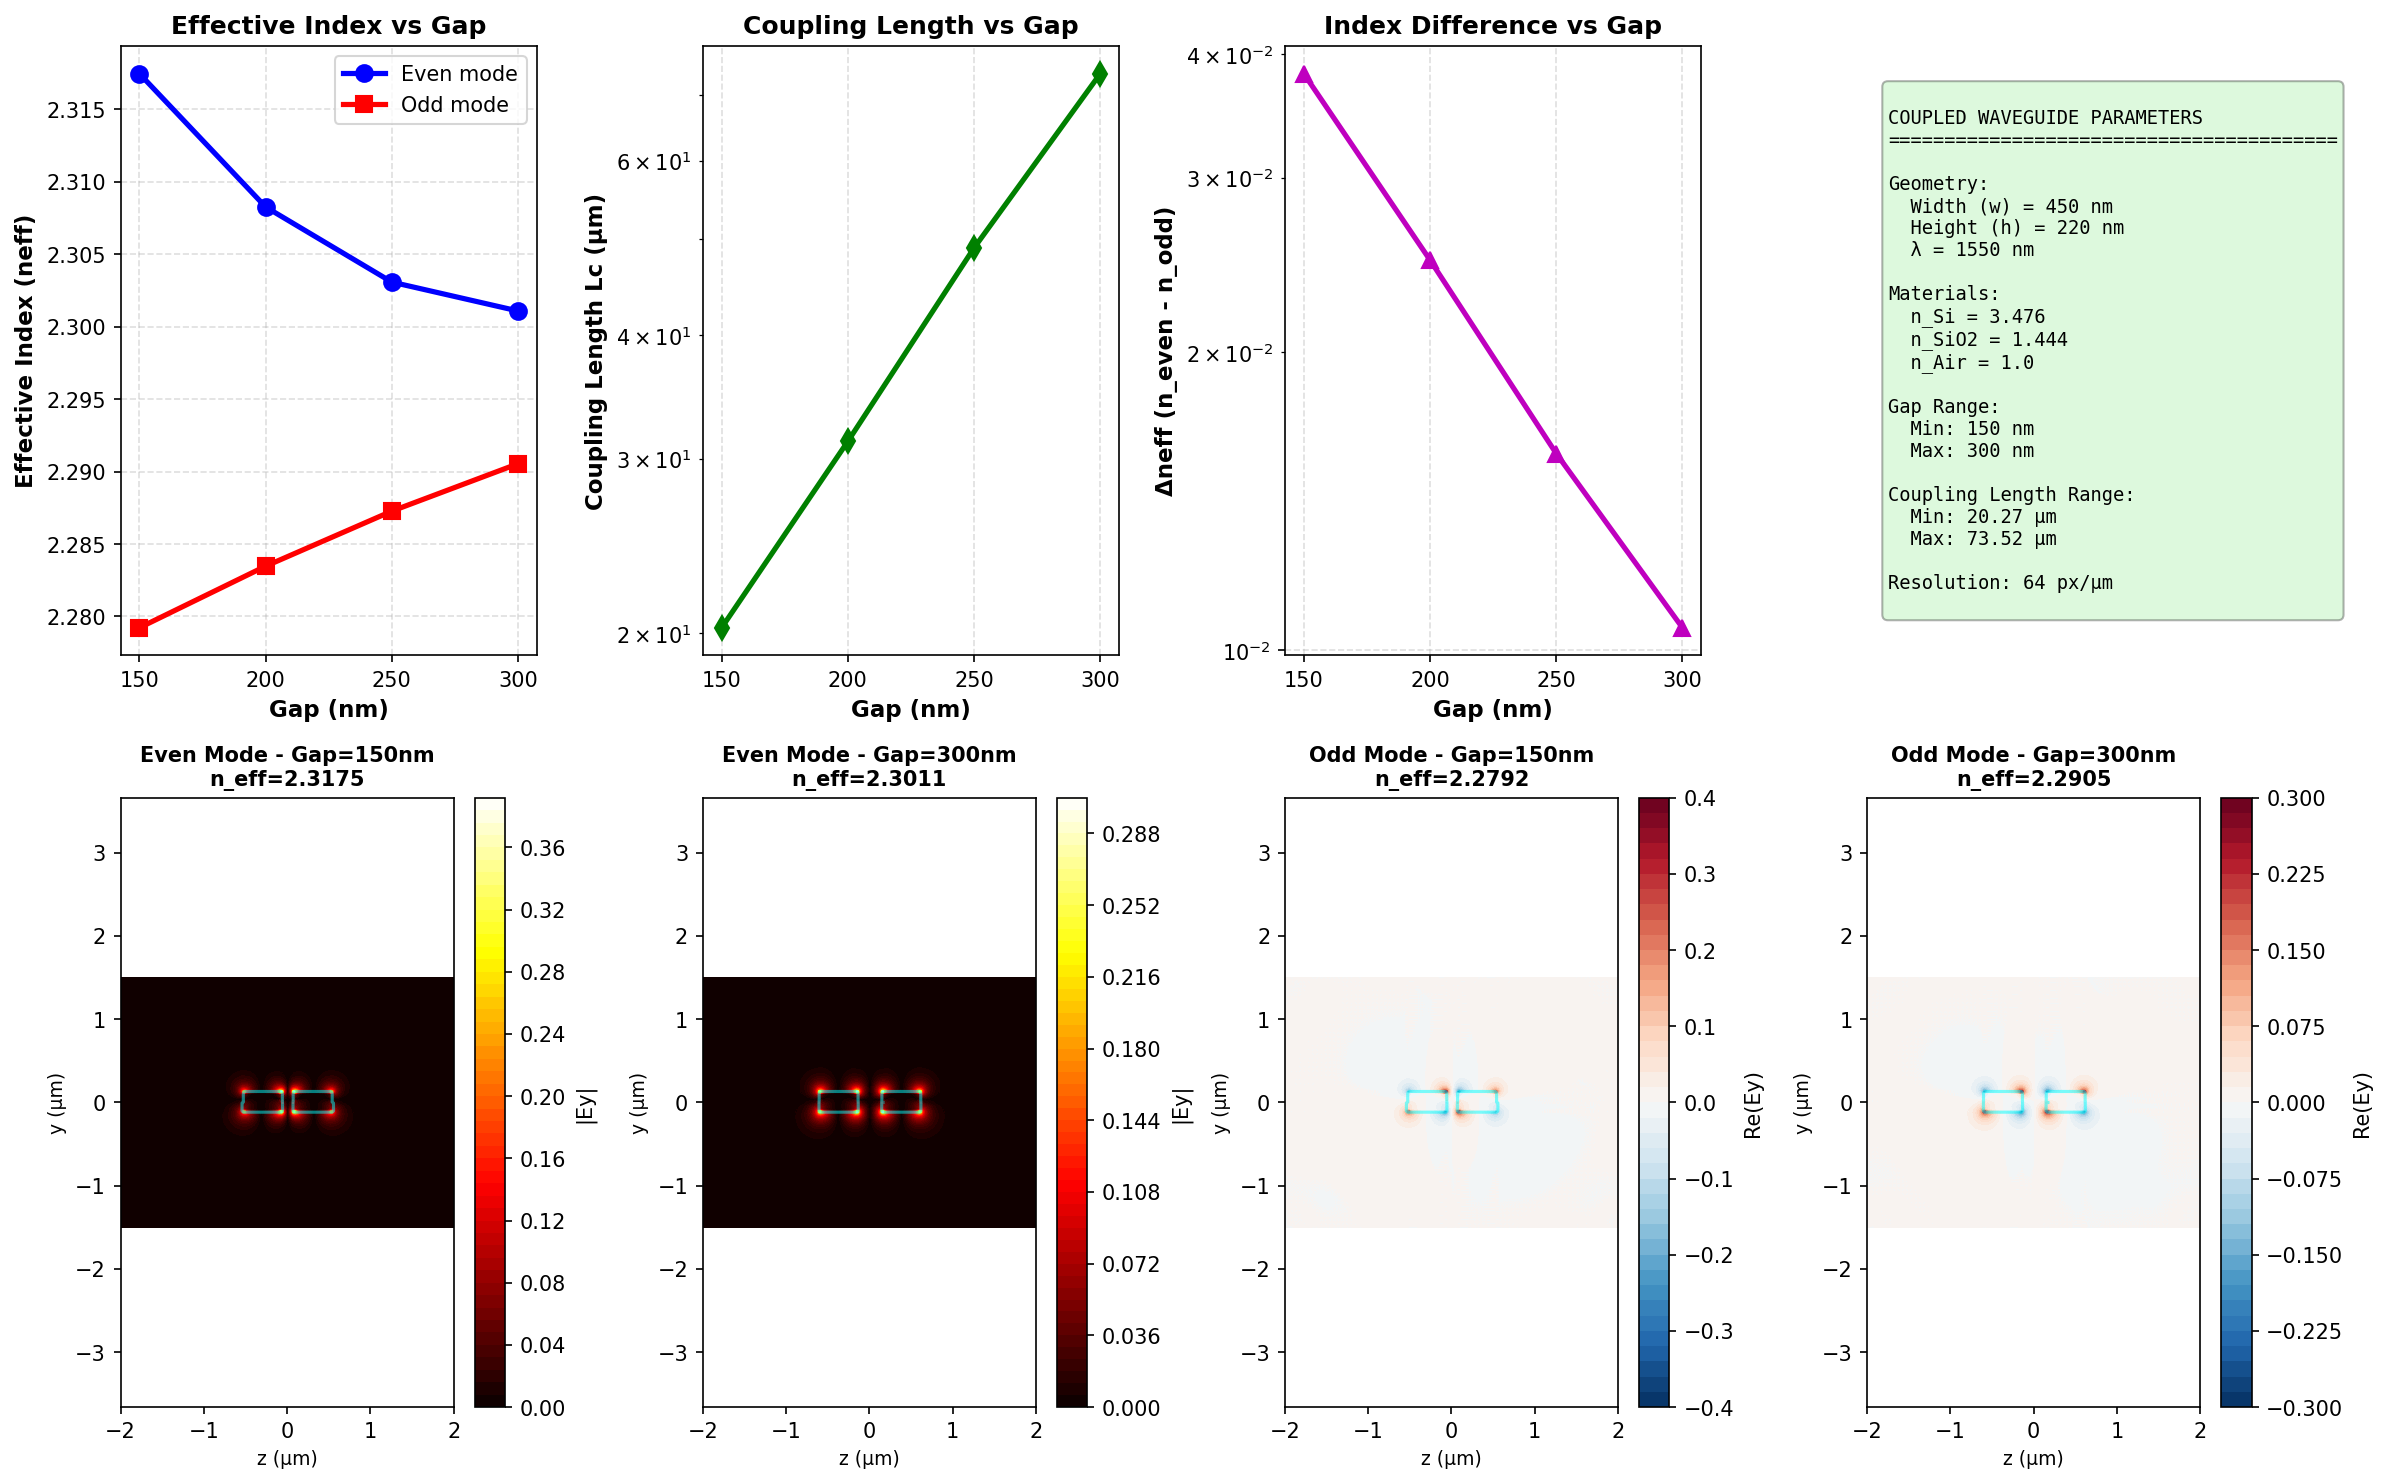
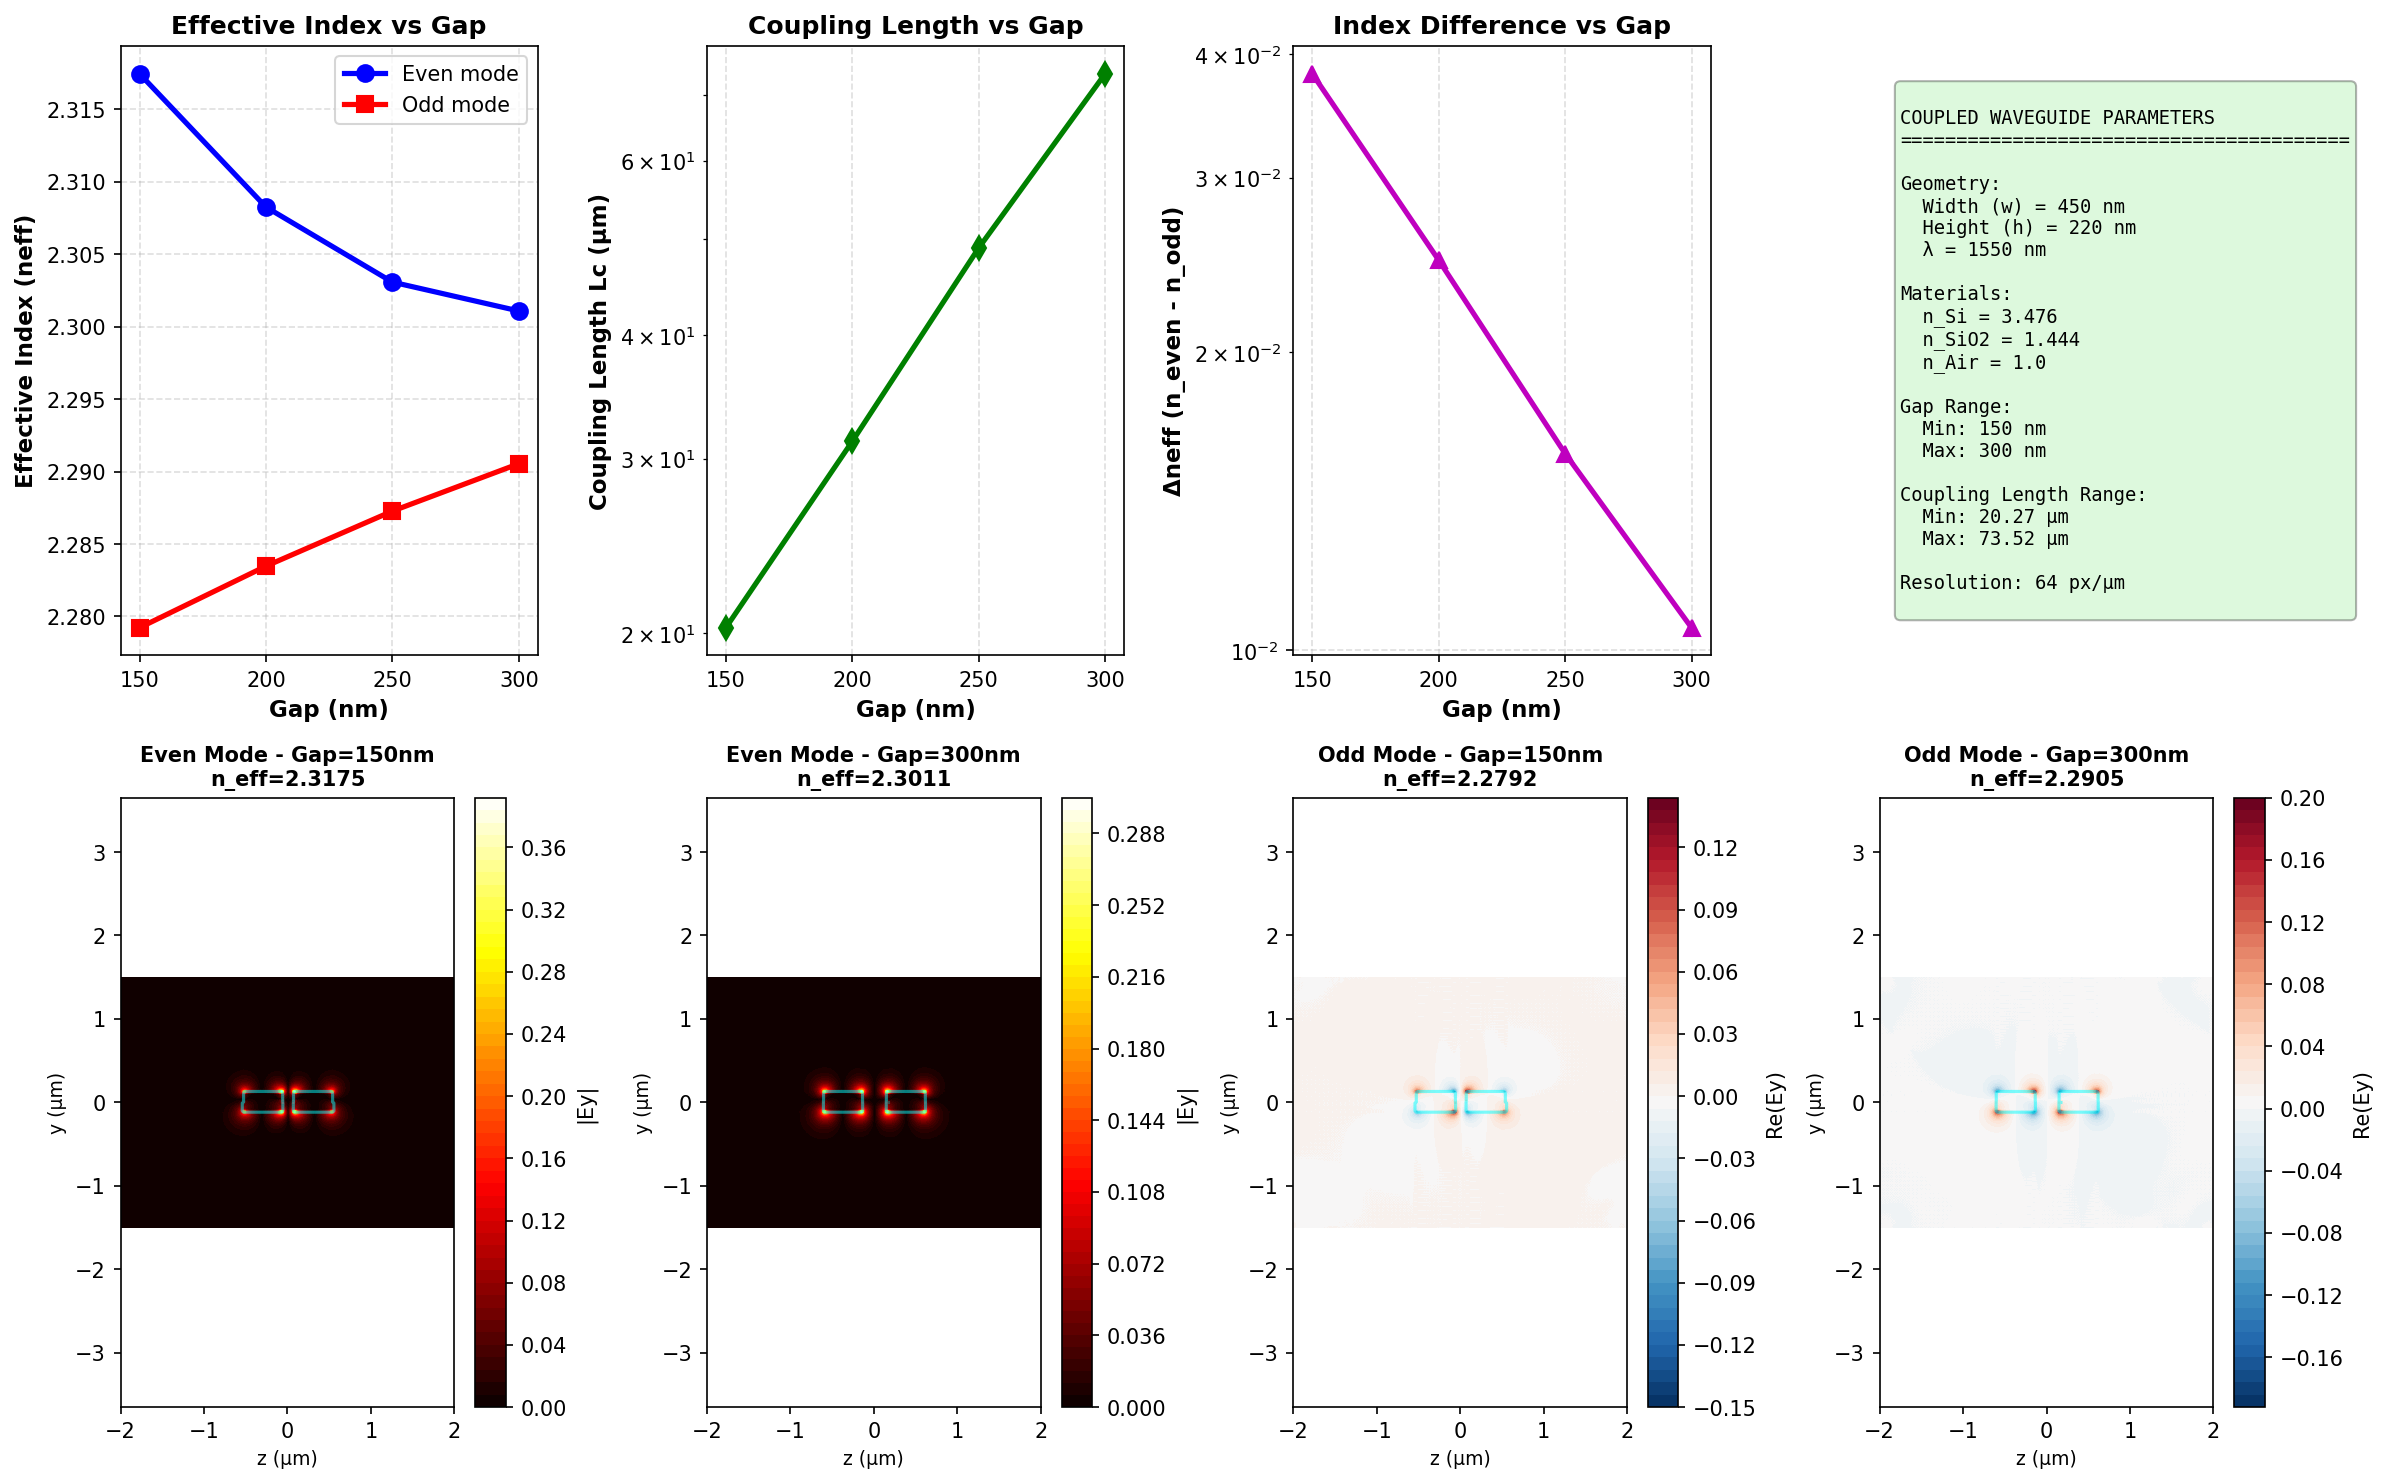
Coupled Length stuff. Also changed resolution for shorter runtimes

diff --git a/couplingLength.py b/couplingLength.py
@@ -1,0 +1,388 @@
+import meep as mp
+from meep import mpb
+import numpy as np
+import matplotlib.pyplot as plt
+
+# Physical parameters
+n_si = 3.476      # Silicon at 1550 nm
+n_sio2 = 1.444    # Silicon dioxide
+n_air = 1.0       # Air
+
+# Materials
+si = mp.Medium(index=n_si)
+sio2 = mp.Medium(index=n_sio2)
+air = mp.Medium(index=n_air)
+
+# Waveguide geometry (in microns)
+w = 0.45          # Width: 450 nm
+h = 0.22          # Height: 220 nm
+g0 = 0.2          # Gap: 200 nm
+
+# Wavelength
+wl0 = 1.55        # 1550 nm
+fcen = 1/wl0      # Center frequency
+df = 0.1*fcen     # Frequency width
+
+# Computational parameters
+resolution = 20   # pixels per micron
+pml_thickness = 1.0
+
+# Turn off verbose output for cleaner results
+mp.verbosity(0)
+
+print("="*80)
+print("COUPLING LENGTH VERIFICATION: FDTD vs THEORY")
+print("="*80)
+
+# Step 1: Calculate theoretical coupling length using MPB
+print("\nStep 1: Calculating theoretical coupling length using MPB...")
+print("-"*80)
+
+sy_mpb = 3.0
+sz_mpb = 4.0
+resolution_mpb = 64
+
+z_offset = (w + g0) / 2
+
+geometry_mpb = [
+    mp.Block(center=mp.Vector3(), size=mp.Vector3(mp.inf, mp.inf), material=air),
+    mp.Block(center=mp.Vector3(0, -sy_mpb/4, 0), 
+            size=mp.Vector3(mp.inf, sy_mpb/2, mp.inf), 
+            material=sio2),
+    mp.Block(center=mp.Vector3(0, 0, -z_offset), 
+            size=mp.Vector3(mp.inf, h, w), 
+            material=si),
+    mp.Block(center=mp.Vector3(0, 0, z_offset), 
+            size=mp.Vector3(mp.inf, h, w), 
+            material=si)
+]
+
+geometry_lattice = mp.Lattice(size=mp.Vector3(0, sy_mpb, sz_mpb))
+
+ms = mpb.ModeSolver(
+    geometry_lattice=geometry_lattice,
+    geometry=geometry_mpb,
+    resolution=resolution_mpb,
+    num_bands=2,
+)
+
+ms.init_params(mp.NO_PARITY, True)
+
+# Find even and odd modes
+tol = 1e-6
+n_mode_guess = 0.5 * (n_si + n_sio2)
+n_mode_min = n_sio2
+n_mode_max = n_si
+
+k_guess = fcen * n_mode_guess
+k_min = fcen * n_mode_min
+k_max = fcen * n_mode_max
+
+k_mpb = ms.find_k(mp.NO_PARITY, fcen, 1, 2, mp.Vector3(1, 0, 0), 
+                  tol, k_guess, k_min, k_max)
+
+neff_even = k_mpb[0] / fcen
+neff_odd = k_mpb[1] / fcen
+delta_neff = neff_even - neff_odd
+Lc_theory = wl0 / (2 * delta_neff)
+
+print(f"Even mode neff: {neff_even:.6f}")
+print(f"Odd mode neff:  {neff_odd:.6f}")
+print(f"Δneff:          {delta_neff:.6f}")
+print(f"Theoretical Lc: {Lc_theory:.3f} μm")
+print("-"*80)
+
+# Step 2: FDTD simulations for different coupling lengths
+print(f"\nStep 2: Running FDTD simulations for multiple coupling lengths...")
+print("-"*80)
+
+# Define coupling length sweep
+L_ratios = [0.5, 0.75, 1.0, 1.25, 1.5]
+L_values = [ratio * Lc_theory for ratio in L_ratios]
+
+# Storage for results
+through_powers = []
+cross_powers = []
+total_powers = []
+
+def run_fdtd_simulation(L):
+    """Run FDTD simulation for given coupling length"""
+    
+    # Cell dimensions
+    sx = L + 4  # Extra space for source and PML
+    sy = 3.0
+    sz = 4.0
+    
+    cell_size = mp.Vector3(sx, sy, sz)
+    pml_layers = [mp.PML(thickness=pml_thickness)]
+    
+    # Geometry - Two coupled waveguides
+    geometry = [
+        mp.Block(center=mp.Vector3(0, -sy/4, 0),
+                size=mp.Vector3(mp.inf, sy/2, mp.inf),
+                material=sio2),
+        mp.Block(center=mp.Vector3(0, 0, -z_offset),
+                size=mp.Vector3(L, h, w),
+                material=si),
+        mp.Block(center=mp.Vector3(0, 0, z_offset),
+                size=mp.Vector3(L, h, w),
+                material=si)
+    ]
+    
+    # Source at input of waveguide 1 (through port)
+    source_x = -L/2 - 0.5
+    sources = [
+        mp.EigenModeSource(
+            src=mp.GaussianSource(fcen, fwidth=df),
+            center=mp.Vector3(source_x, 0, -z_offset),
+            size=mp.Vector3(0, sy, sz),
+            eig_band=1,
+            eig_parity=mp.NO_PARITY,
+            eig_match_freq=True
+        )
+    ]
+    
+    # Output monitors
+    monitor_x = L/2 + 0.5
+    
+    # Through port (same waveguide as input)
+    through_region = mp.FluxRegion(
+        center=mp.Vector3(monitor_x, 0, -z_offset),
+        size=mp.Vector3(0, 1.5, 1.5)
+    )
+    
+    # Cross port (coupled waveguide)
+    cross_region = mp.FluxRegion(
+        center=mp.Vector3(monitor_x, 0, z_offset),
+        size=mp.Vector3(0, 1.5, 1.5)
+    )
+    
+    # Initialize simulation
+    sim = mp.Simulation(
+        cell_size=cell_size,
+        geometry=geometry,
+        sources=sources,
+        boundary_layers=pml_layers,
+        resolution=resolution,
+        default_material=air
+    )
+    
+    # Add flux monitors
+    through_flux = sim.add_flux(fcen, df, 1, through_region)
+    cross_flux = sim.add_flux(fcen, df, 1, cross_region)
+    
+    # Run simulation with fixed time
+    # Conservative estimate: propagation time through structure
+    runtime = 50  # Fixed time units
+    sim.run(until=runtime)
+    
+    # Get flux values
+    through_power = mp.get_fluxes(through_flux)[0]
+    cross_power = mp.get_fluxes(cross_flux)[0]
+    
+    return through_power, cross_power
+
+# Run simulations for each length
+for i, (L, ratio) in enumerate(zip(L_values, L_ratios)):
+    print(f"Simulating L = {ratio:.2f}Lc ({L:.3f} μm)...", end=" ", flush=True)
+    
+    through_power, cross_power = run_fdtd_simulation(L)
+    total_power = through_power + cross_power
+    
+    through_powers.append(through_power)
+    cross_powers.append(cross_power)
+    total_powers.append(total_power)
+    
+    through_pct = (through_power / total_power) * 100
+    cross_pct = (cross_power / total_power) * 100
+    
+    print(f"Through: {through_pct:.1f}%, Cross: {cross_pct:.1f}%")
+
+print("-"*80)
+
+# Step 3: Calculate theoretical power transfer
+print("\nStep 3: Computing theoretical power transfer curves...")
+print("-"*80)
+
+L_theory_fine = np.linspace(0, 2*Lc_theory, 200)
+# Theoretical power transfer: P_cross = sin²(π*L/(2*Lc))
+cross_power_theory = np.sin(np.pi * L_theory_fine / (2 * Lc_theory))**2
+through_power_theory = np.cos(np.pi * L_theory_fine / (2 * Lc_theory))**2
+
+# Normalize FDTD results
+through_powers_norm = np.array(through_powers) / np.array(total_powers)
+cross_powers_norm = np.array(cross_powers) / np.array(total_powers)
+
+# Find maximum cross power location
+max_cross_idx = np.argmax(cross_powers_norm)
+Lc_fdtd = L_values[max_cross_idx]
+error_percent = abs(Lc_fdtd - Lc_theory) / Lc_theory * 100
+
+print(f"Theoretical Lc:     {Lc_theory:.3f} μm")
+print(f"FDTD maximum at:    {Lc_fdtd:.3f} μm")
+print(f"Relative error:     {error_percent:.2f}%")
+print("-"*80)
+
+# Step 4: Visualization
+print("\nStep 4: Generating comprehensive plots...")
+
+fig = plt.figure(figsize=(16, 10))
+
+# Plot 1: Power vs Length - Main comparison
+ax1 = plt.subplot(2, 3, 1)
+plt.plot(L_theory_fine, cross_power_theory*100, 'r-', linewidth=3, 
+         label='Cross (Theory)', alpha=0.7)
+plt.plot(L_theory_fine, through_power_theory*100, 'b-', linewidth=3, 
+         label='Through (Theory)', alpha=0.7)
+plt.plot(L_values, cross_powers_norm*100, 'ro', markersize=12, 
+         markeredgecolor='darkred', markeredgewidth=2, label='Cross (FDTD)')
+plt.plot(L_values, through_powers_norm*100, 'bs', markersize=12, 
+         markeredgecolor='darkblue', markeredgewidth=2, label='Through (FDTD)')
+plt.axvline(x=Lc_theory, color='green', linestyle='--', linewidth=2, 
+            label=f'Theoretical Lc={Lc_theory:.2f}μm')
+plt.axvline(x=Lc_fdtd, color='orange', linestyle=':', linewidth=2, 
+            label=f'FDTD max at {Lc_fdtd:.2f}μm')
+plt.xlabel('Coupling Length L (μm)', fontsize=12, fontweight='bold')
+plt.ylabel('Power (%)', fontsize=12, fontweight='bold')
+plt.title('Power Transfer: FDTD vs Theory', fontsize=13, fontweight='bold')
+plt.legend(fontsize=9, loc='best')
+plt.grid(True, alpha=0.3)
+plt.xlim([0, max(L_values)*1.1])
+plt.ylim([0, 105])
+
+# Plot 2: Cross port power - zoomed
+ax2 = plt.subplot(2, 3, 2)
+plt.plot(L_theory_fine, cross_power_theory*100, 'r-', linewidth=3, alpha=0.7)
+plt.plot(L_values, cross_powers_norm*100, 'ro', markersize=12, 
+         markeredgecolor='darkred', markeredgewidth=2)
+plt.axvline(x=Lc_theory, color='green', linestyle='--', linewidth=2, alpha=0.7)
+plt.axhline(y=100, color='gray', linestyle=':', linewidth=1.5, alpha=0.5)
+plt.xlabel('Coupling Length L (μm)', fontsize=12, fontweight='bold')
+plt.ylabel('Cross Port Power (%)', fontsize=12, fontweight='bold')
+plt.title('Cross Port Power Detail', fontsize=13, fontweight='bold')
+plt.grid(True, alpha=0.3)
+plt.xlim([0, max(L_values)*1.1])
+plt.ylim([0, 105])
+
+# Plot 3: Error analysis
+ax3 = plt.subplot(2, 3, 3)
+cross_error = (cross_powers_norm*100 - 
+               np.sin(np.pi * np.array(L_values) / (2 * Lc_theory))**2 * 100)
+through_error = (through_powers_norm*100 - 
+                 np.cos(np.pi * np.array(L_values) / (2 * Lc_theory))**2 * 100)
+plt.plot(L_values, cross_error, 'ro-', linewidth=2, markersize=10, 
+         label='Cross port error')
+plt.plot(L_values, through_error, 'bs-', linewidth=2, markersize=10, 
+         label='Through port error')
+plt.axhline(y=0, color='black', linestyle='-', linewidth=1)
+plt.xlabel('Coupling Length L (μm)', fontsize=12, fontweight='bold')
+plt.ylabel('Error: FDTD - Theory (%)', fontsize=12, fontweight='bold')
+plt.title('FDTD vs Theory Error', fontsize=13, fontweight='bold')
+plt.legend(fontsize=10)
+plt.grid(True, alpha=0.3)
+
+# Plot 4: Summary info
+ax4 = plt.subplot(2, 3, 4)
+ax4.axis('off')
+summary_text = f"""
+SIMULATION PARAMETERS
+{'='*45}
+
+Geometry:
+  Width (w):        {w*1000:.0f} nm
+  Height (h):       {h*1000:.0f} nm
+  Gap (g₀):         {g0*1000:.0f} nm
+  Wavelength (λ):   {wl0*1000:.0f} nm
+
+Materials:
+  n_Si:    {n_si}
+  n_SiO₂:  {n_sio2}
+  n_Air:   {n_air}
+
+Mode Analysis:
+  n_eff (even):     {neff_even:.6f}
+  n_eff (odd):      {neff_odd:.6f}
+  Δn_eff:           {delta_neff:.6f}
+
+Coupling Length:
+  Theoretical:      {Lc_theory:.3f} μm
+  FDTD (max):       {Lc_fdtd:.3f} μm
+  Error:            {error_percent:.2f}%
+
+Resolution:         {resolution} px/μm
+PML thickness:      {pml_thickness} μm
+"""
+ax4.text(0.05, 0.5, summary_text, fontsize=9, family='monospace',
+         verticalalignment='center',
+         bbox=dict(boxstyle='round', facecolor='lightyellow', alpha=0.5))
+
+# Plot 5: Bar chart at specific lengths
+ax5 = plt.subplot(2, 3, 5)
+x_pos = np.arange(len(L_ratios))
+width = 0.35
+bars1 = plt.bar(x_pos - width/2, through_powers_norm*100, width, 
+                label='Through', color='blue', alpha=0.7, edgecolor='black')
+bars2 = plt.bar(x_pos + width/2, cross_powers_norm*100, width, 
+                label='Cross', color='red', alpha=0.7, edgecolor='black')
+plt.xlabel('Coupling Length', fontsize=12, fontweight='bold')
+plt.ylabel('Power (%)', fontsize=12, fontweight='bold')
+plt.title('Power Distribution at Different Lengths', fontsize=13, fontweight='bold')
+plt.xticks(x_pos, [f'{r:.2f}Lc' for r in L_ratios])
+plt.legend(fontsize=10)
+plt.grid(True, axis='y', alpha=0.3)
+plt.ylim([0, 105])
+
+# Add value labels on bars
+for bars in [bars1, bars2]:
+    for bar in bars:
+        height = bar.get_height()
+        ax5.text(bar.get_x() + bar.get_width()/2., height,
+                f'{height:.0f}%', ha='center', va='bottom', fontsize=8)
+
+# Plot 6: Coupling efficiency vs normalized length
+ax6 = plt.subplot(2, 3, 6)
+L_normalized = np.array(L_values) / Lc_theory
+L_norm_theory = L_theory_fine / Lc_theory
+plt.plot(L_norm_theory, cross_power_theory*100, 'r-', linewidth=3, 
+         label='Theory', alpha=0.7)
+plt.plot(L_normalized, cross_powers_norm*100, 'ro', markersize=12, 
+         markeredgecolor='darkred', markeredgewidth=2, label='FDTD')
+plt.axvline(x=1.0, color='green', linestyle='--', linewidth=2, 
+            label='L = Lc', alpha=0.7)
+plt.xlabel('Normalized Length (L/Lc)', fontsize=12, fontweight='bold')
+plt.ylabel('Cross Port Power (%)', fontsize=12, fontweight='bold')
+plt.title('Coupling Efficiency vs L/Lc', fontsize=13, fontweight='bold')
+plt.legend(fontsize=10)
+plt.grid(True, alpha=0.3)
+plt.xlim([0, max(L_normalized)*1.1])
+plt.ylim([0, 105])
+
+plt.tight_layout()
+plt.savefig('coupling_length_verification.png', dpi=150, bbox_inches='tight')
+print("Plot saved as 'coupling_length_verification.png'")
+plt.show()
+
+# Print detailed results table
+print("\n" + "="*80)
+print("DETAILED RESULTS TABLE")
+print("="*80)
+print(f"{'L (μm)':<10} {'L/Lc':<10} {'Through %':<12} {'Cross %':<12} {'Theory Cross %':<15}")
+print("-"*80)
+for i, (L, ratio) in enumerate(zip(L_values, L_ratios)):
+    theory_cross = np.sin(np.pi * L / (2 * Lc_theory))**2 * 100
+    print(f"{L:<10.3f} {ratio:<10.2f} {through_powers_norm[i]*100:<12.1f} "
+          f"{cross_powers_norm[i]*100:<12.1f} {theory_cross:<15.1f}")
+print("="*80)
+
+# Analysis of discrepancies
+print("\nANALYSIS OF DISCREPANCIES:")
+print("-"*80)
+print("Possible causes of FDTD vs Theory differences:")
+print("  1. Finite resolution effects (30 pixels/μm)")
+print("  2. Mode mismatch at source and boundaries")
+print("  3. PML absorption affecting coupling region")
+print("  4. 3D geometry vs 2D mode solver approximation")
+print("  5. Numerical dispersion in FDTD")
+print(f"\nMaximum error: {max(abs(cross_error)):.2f}%")
+print(f"RMS error: {np.sqrt(np.mean(cross_error**2)):.2f}%")
+print("="*80)
